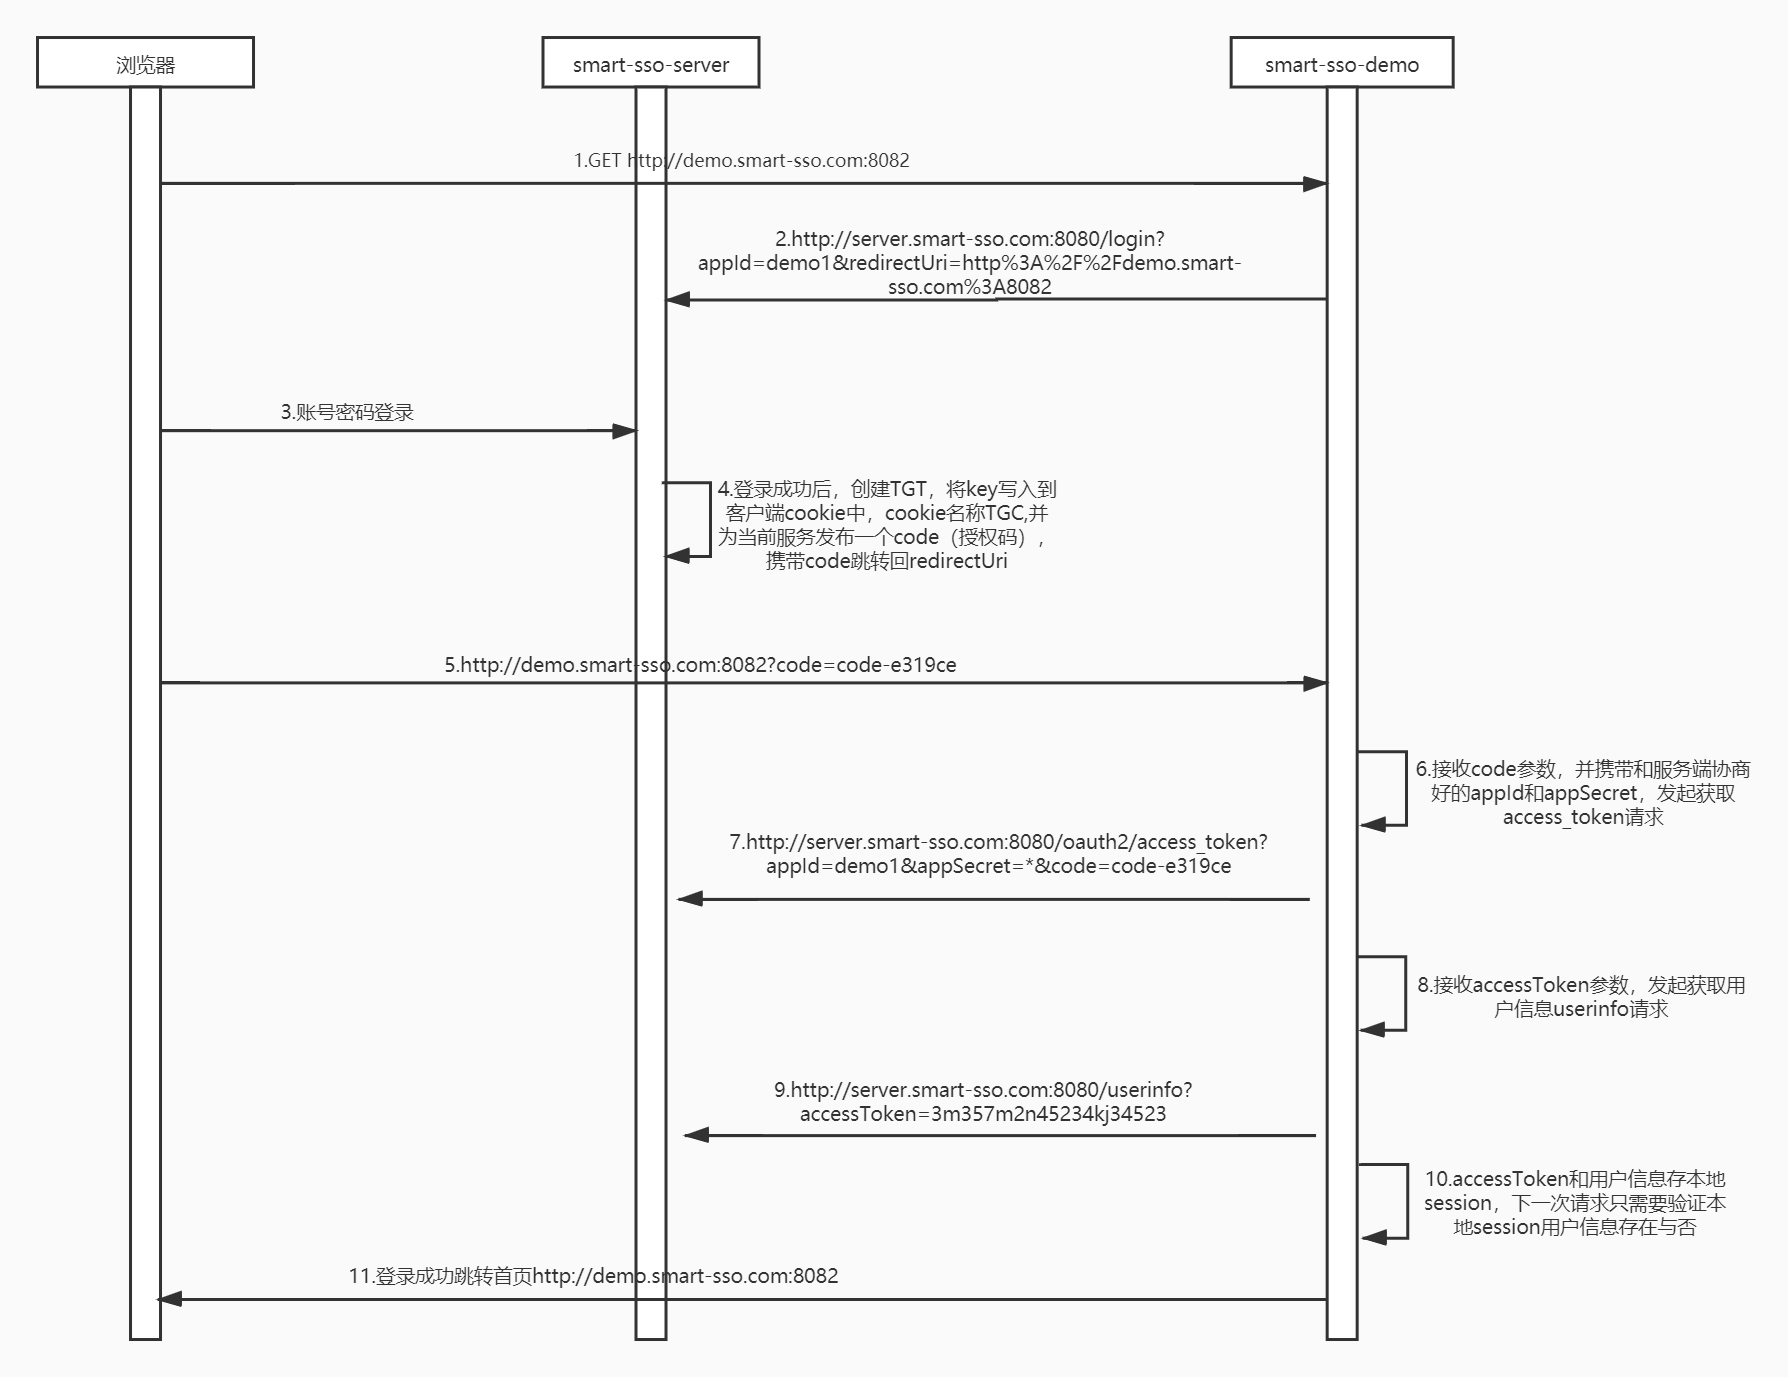
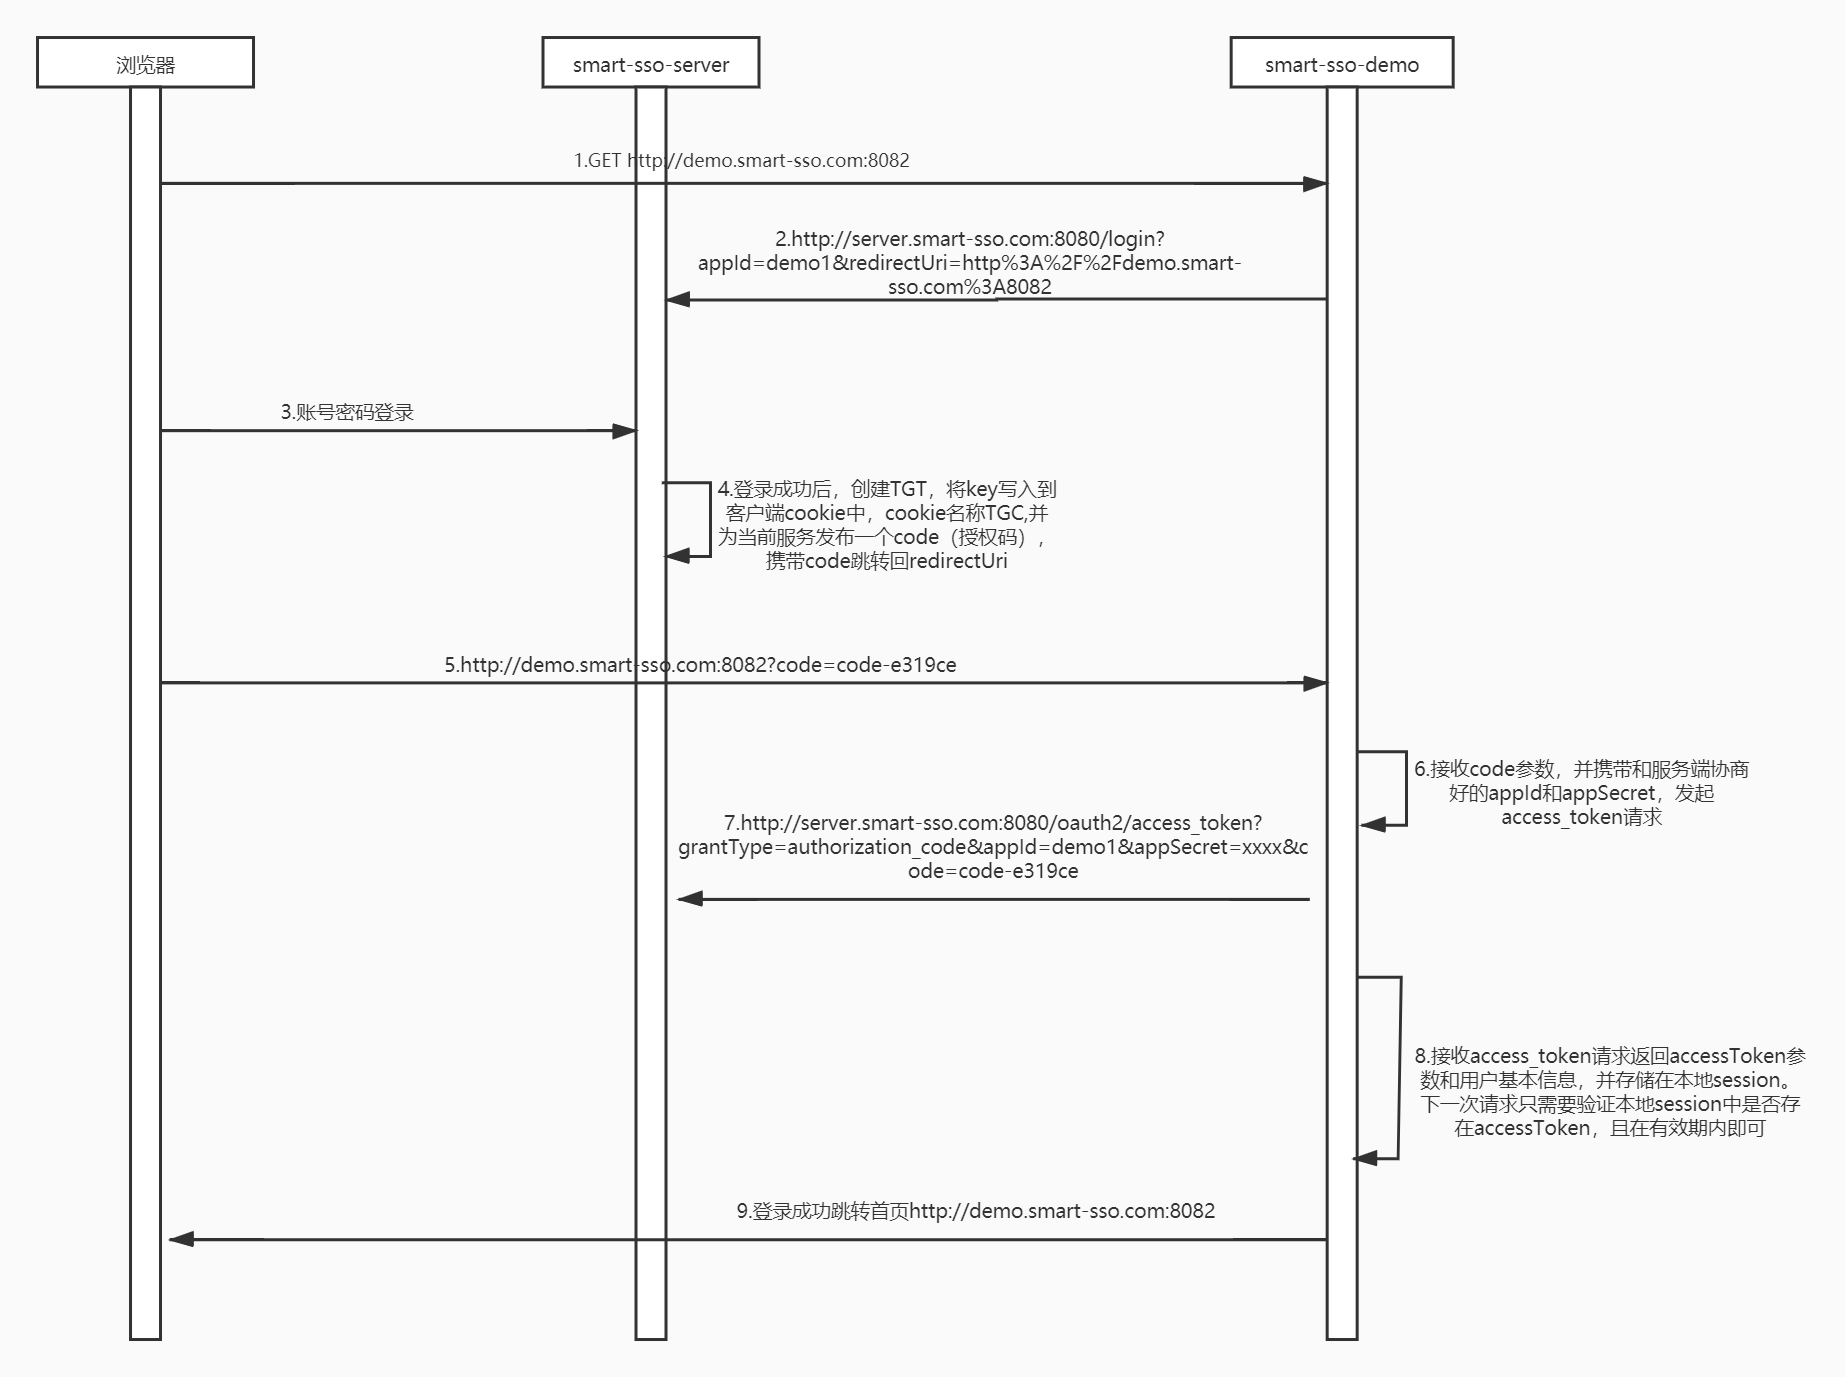
代码优化，添加相关类注释

diff --git a/smart-sso-server/src/main/java/com/smart/sso/server/controller/LoginController.java b/smart-sso-server/src/main/java/com/smart/sso/server/controller/LoginController.java
@@ -14,6 +14,7 @@ import org.springframework.web.bind.annotation.RequestMethod;
 import org.springframework.web.bind.annotation.RequestParam;
 
 import com.smart.sso.client.constant.Oauth2Constant;
+import com.smart.sso.client.constant.SsoConstant;
 import com.smart.sso.client.rpc.Result;
 import com.smart.sso.client.rpc.SsoUser;
 import com.smart.sso.server.constant.AppConstant;
@@ -52,8 +53,8 @@ public class LoginController{
 	 */
 	@RequestMapping(method = RequestMethod.GET)
 	public String login(
-			@RequestParam String redirectUri,
-			@RequestParam String appId,
+			@RequestParam(value = SsoConstant.REDIRECT_URI, required = true) String redirectUri,
+			@RequestParam(value = Oauth2Constant.APP_ID, required = true) String appId,
 			HttpServletRequest request) throws UnsupportedEncodingException {
 		String tgt = CookieUtils.getCookie(request, AppConstant.TGC);
 		if (StringUtils.isEmpty(tgt) || ticketGrantingTicketManager.get(tgt) == null) {
@@ -76,8 +77,8 @@ public class LoginController{
 	 */
 	@RequestMapping(method = RequestMethod.POST)
 	public String login(
-			@RequestParam String redirectUri,
-			@RequestParam String appId,
+			@RequestParam(value = SsoConstant.REDIRECT_URI, required = true) String redirectUri,
+			@RequestParam(value = Oauth2Constant.APP_ID, required = true) String appId,
 			@RequestParam String username, 
 			@RequestParam String password,
 			HttpServletRequest request, HttpServletResponse response) throws UnsupportedEncodingException {
@@ -111,8 +112,8 @@ public class LoginController{
 	 * @return
 	 */
 	private String goLoginPath(String redirectUri, String appId, HttpServletRequest request) {
-		request.setAttribute("redirectUri", redirectUri);
-		request.setAttribute("appId", appId);
+		request.setAttribute(SsoConstant.REDIRECT_URI, redirectUri);
+		request.setAttribute(Oauth2Constant.APP_ID, appId);
 		return AppConstant.LOGIN_PATH;
 	}
 	

diff --git a/smart-sso-client/src/main/java/com/smart/sso/client/filter/LoginFilter.java b/smart-sso-client/src/main/java/com/smart/sso/client/filter/LoginFilter.java
@@ -3,7 +3,6 @@ package com.smart.sso.client.filter;
 import java.io.IOException;
 import java.io.PrintWriter;
 import java.net.URLEncoder;
-import java.text.MessageFormat;
 
 import javax.servlet.http.HttpServletRequest;
 import javax.servlet.http.HttpServletResponse;
@@ -113,8 +112,10 @@ public class LoginFilter extends ClientFilter {
 			responseJson(response, SsoConstant.NO_LOGIN, "未登录或已超时");
 		}
 		else {
-			String loginUrl = MessageFormat.format(SsoConstant.LOGIN_URL, getServerUrl(), getAppId(),
-					URLEncoder.encode(getCurrentUrl(request), "utf-8"));
+			String loginUrl = new StringBuilder().append(getServerUrl()).append(SsoConstant.LOGIN_URL).append("?")
+					.append(Oauth2Constant.APP_ID).append("=").append(getAppId()).append("&")
+					.append(SsoConstant.REDIRECT_URI).append("=")
+					.append(URLEncoder.encode(getCurrentUrl(request), "utf-8")).toString();
 			response.sendRedirect(loginUrl);
 		}
 	}

diff --git a/smart-sso-server/src/main/java/com/smart/sso/server/controller/LogoutController.java b/smart-sso-server/src/main/java/com/smart/sso/server/controller/LogoutController.java
@@ -10,6 +10,7 @@ import org.springframework.web.bind.annotation.RequestMapping;
 import org.springframework.web.bind.annotation.RequestMethod;
 import org.springframework.web.bind.annotation.RequestParam;
 
+import com.smart.sso.client.constant.SsoConstant;
 import com.smart.sso.server.constant.AppConstant;
 import com.smart.sso.server.session.AccessTokenManager;
 import com.smart.sso.server.session.TicketGrantingTicketManager;
@@ -39,7 +40,7 @@ public class LogoutController {
 	 */
 	@RequestMapping(method = RequestMethod.GET)
 	public String logout(
-			@RequestParam String redirectUri,
+			@RequestParam(value = SsoConstant.REDIRECT_URI, required = true) String redirectUri,
 	        HttpServletRequest request, HttpServletResponse response) {
 		String tgt = CookieUtils.getCookie(request, AppConstant.TGC);
 		if (!StringUtils.isEmpty(tgt)) {

diff --git a/smart-sso-server/src/main/java/com/smart/sso/server/controller/IndexController.java b/smart-sso-server/src/main/java/com/smart/sso/server/controller/IndexController.java
@@ -2,7 +2,6 @@ package com.smart.sso.server.controller;
 
 import java.io.UnsupportedEncodingException;
 import java.net.URLEncoder;
-import java.text.MessageFormat;
 
 import javax.servlet.http.HttpServletRequest;
 
@@ -47,8 +46,8 @@ public class IndexController {
 		// 当前sessionId
 		model.addAttribute("sessionId", request.getSession().getId());
 		// 单点退出地址
-		model.addAttribute("logoutUrl", MessageFormat.format(SsoConstant.LOGOUT_URL, serverUrl,
-				URLEncoder.encode(getLocalUrl(request), "utf-8")));
+		model.addAttribute("logoutUrl", serverUrl + SsoConstant.LOGOUT_URL + "?" + SsoConstant.REDIRECT_URI + "="
+				+ URLEncoder.encode(getLocalUrl(request), "utf-8"));
 		return "index";
 	}
     

diff --git a/smart-sso-demo/src/main/java/com/smart/sso/demo/controller/IndexController.java b/smart-sso-demo/src/main/java/com/smart/sso/demo/controller/IndexController.java
@@ -2,7 +2,6 @@ package com.smart.sso.demo.controller;
 
 import java.io.UnsupportedEncodingException;
 import java.net.URLEncoder;
-import java.text.MessageFormat;
 
 import javax.servlet.http.HttpServletRequest;
 
@@ -42,8 +41,8 @@ public class IndexController {
 		// 当前sessionId
 		model.addAttribute("sessionId", request.getSession().getId());
 		// 单点退出地址
-		model.addAttribute("logoutUrl", MessageFormat.format(SsoConstant.LOGOUT_URL, serverUrl,
-				URLEncoder.encode(getLocalUrl(request), "utf-8")));
+		model.addAttribute("logoutUrl", serverUrl + SsoConstant.LOGOUT_URL + "?" + SsoConstant.REDIRECT_URI + "="
+				+ URLEncoder.encode(getLocalUrl(request), "utf-8"));
 		return "index";
 	}
 	

diff --git a/smart-sso-client/src/main/java/com/smart/sso/client/constant/Oauth2Constant.java b/smart-sso-client/src/main/java/com/smart/sso/client/constant/Oauth2Constant.java
@@ -13,22 +13,22 @@ public class Oauth2Constant {
 	/**
 	 * 授权方式
 	 */
-	public static final String GRANT_TYPE = "grant_type";
+	public static final String GRANT_TYPE = "grantType";
 	
 	/**
 	 * 应用唯一标识
 	 */
-	public static final String APP_ID = "app_id";
+	public static final String APP_ID = "appId";
 	
 	/**
 	 * 应用密钥
 	 */
-	public static final String APP_SECRET = "app_secret";
+	public static final String APP_SECRET = "appSecret";
 	
 	/**
 	 * 刷新token
 	 */
-	public static final String REFRESH_TOKEN = "refresh_token";
+	public static final String REFRESH_TOKEN = "refreshToken";
 	
 	/**
 	 * 授权码（授权码模式）

diff --git a/smart-sso-client/src/main/java/com/smart/sso/client/constant/SsoConstant.java b/smart-sso-client/src/main/java/com/smart/sso/client/constant/SsoConstant.java
@@ -8,12 +8,17 @@ public class SsoConstant {
 	/**
      * 服务端登录地址
      */
-	public static final String LOGIN_URL = "{0}/login?appId={1}&redirectUri={2}";
+	public static final String LOGIN_URL = "/login";
 
 	/**
 	 * 服务端登出地址
 	 */
-	public static final String LOGOUT_URL = "{0}/logout?redirectUri={1}";
+	public static final String LOGOUT_URL = "/logout";
+	
+	/**
+	 * 服务端回调客户端地址参数名称
+	 */
+	public static final String REDIRECT_URI = "redirectUri";
     
     /**
      * 服务端单点登出回调客户端登出参数名称

diff --git a/smart-sso-client/src/main/java/com/smart/sso/client/util/Oauth2Utils.java b/smart-sso-client/src/main/java/com/smart/sso/client/util/Oauth2Utils.java
@@ -79,7 +79,7 @@ public class Oauth2Utils {
 	private static Result<RpcAccessToken> getHttpAccessToken(String url, Map<String, String> paramMap) {
 		String jsonStr = HttpUtils.get(url, paramMap);
 		if (jsonStr == null || jsonStr.isEmpty()) {
-			logger.error("getHttpJson exception, return null. url:{}", url);
+			logger.error("getHttpAccessToken exception, return null. url:{}", url);
 			return null;
 		}
 		return JSONObject.parseObject(jsonStr, new TypeReference<Result<RpcAccessToken>>(){});

diff --git a/smart-sso-client/src/main/java/com/smart/sso/client/enums/GrantTypeEnum.java b/smart-sso-client/src/main/java/com/smart/sso/client/enums/GrantTypeEnum.java
@@ -7,7 +7,14 @@ package com.smart.sso.client.enums;
  */
 public enum GrantTypeEnum {
 	
+	/**
+	 * 授权码模式
+	 */
 	AUTHORIZATION_CODE("authorization_code"), 
+
+	/**
+	 * 密码模式
+	 */
 	PASSWORD("password");
 
 	private String value;

diff --git a/smart-sso-client/src/main/java/com/smart/sso/client/util/SessionUtils.java b/smart-sso-client/src/main/java/com/smart/sso/client/util/SessionUtils.java
@@ -10,7 +10,7 @@ import com.smart.sso.client.rpc.SsoUser;
 import com.smart.sso.client.session.SessionAccessToken;
 
 /**
- * 当前已登录用户Session工具
+ * Session工具
  * 
  * @author Joe
  */

diff --git a/README.md b/README.md
@@ -34,11 +34,11 @@ smart-sso
 - 单点登录：基于OAuth2协议实现
 
 ## 单点登录原理
-![在这里插入图片描述](https://img-blog.csdnimg.cn/20201030140826191.jpg?x-oss-process=image/watermark,type_ZmFuZ3poZW5naGVpdGk,shadow_10,text_aHR0cHM6Ly9ibG9nLmNzZG4ubmV0L2E0NjYzNTA2NjU=,size_16,color_FFFFFF,t_70#pic_center)
+![在这里插入图片描述](https://img-blog.csdnimg.cn/20201118170252707.jpg?x-oss-process=image/watermark,type_ZmFuZ3poZW5naGVpdGk,shadow_10,text_aHR0cHM6Ly9ibG9nLmNzZG4ubmV0L2E0NjYzNTA2NjU=,size_16,color_FFFFFF,t_70#pic_center)
 
 
 ## 单点退出原理
-![在这里插入图片描述](https://img-blog.csdnimg.cn/20201030141044187.jpg?x-oss-process=image/watermark,type_ZmFuZ3poZW5naGVpdGk,shadow_10,text_aHR0cHM6Ly9ibG9nLmNzZG4ubmV0L2E0NjYzNTA2NjU=,size_16,color_FFFFFF,t_70#pic_center)
+![在这里插入图片描述](https://img-blog.csdnimg.cn/20201118165835197.jpg?x-oss-process=image/watermark,type_ZmFuZ3poZW5naGVpdGk,shadow_10,text_aHR0cHM6Ly9ibG9nLmNzZG4ubmV0L2E0NjYzNTA2NjU=,size_16,color_FFFFFF,t_70#pic_center)
 
 
 ## 效果展示
